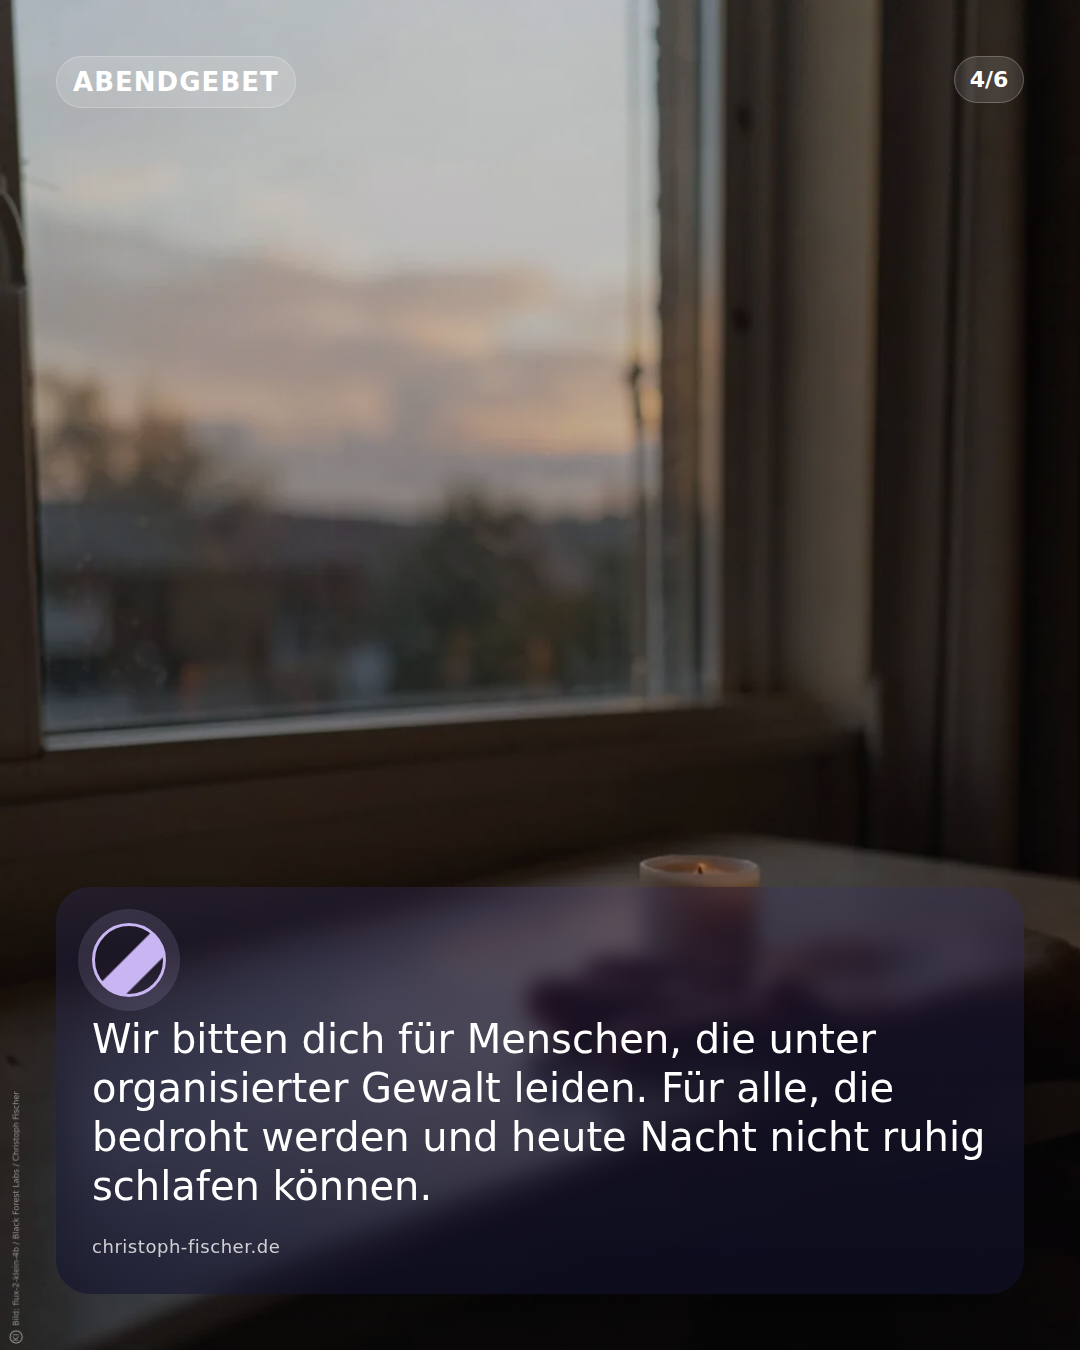
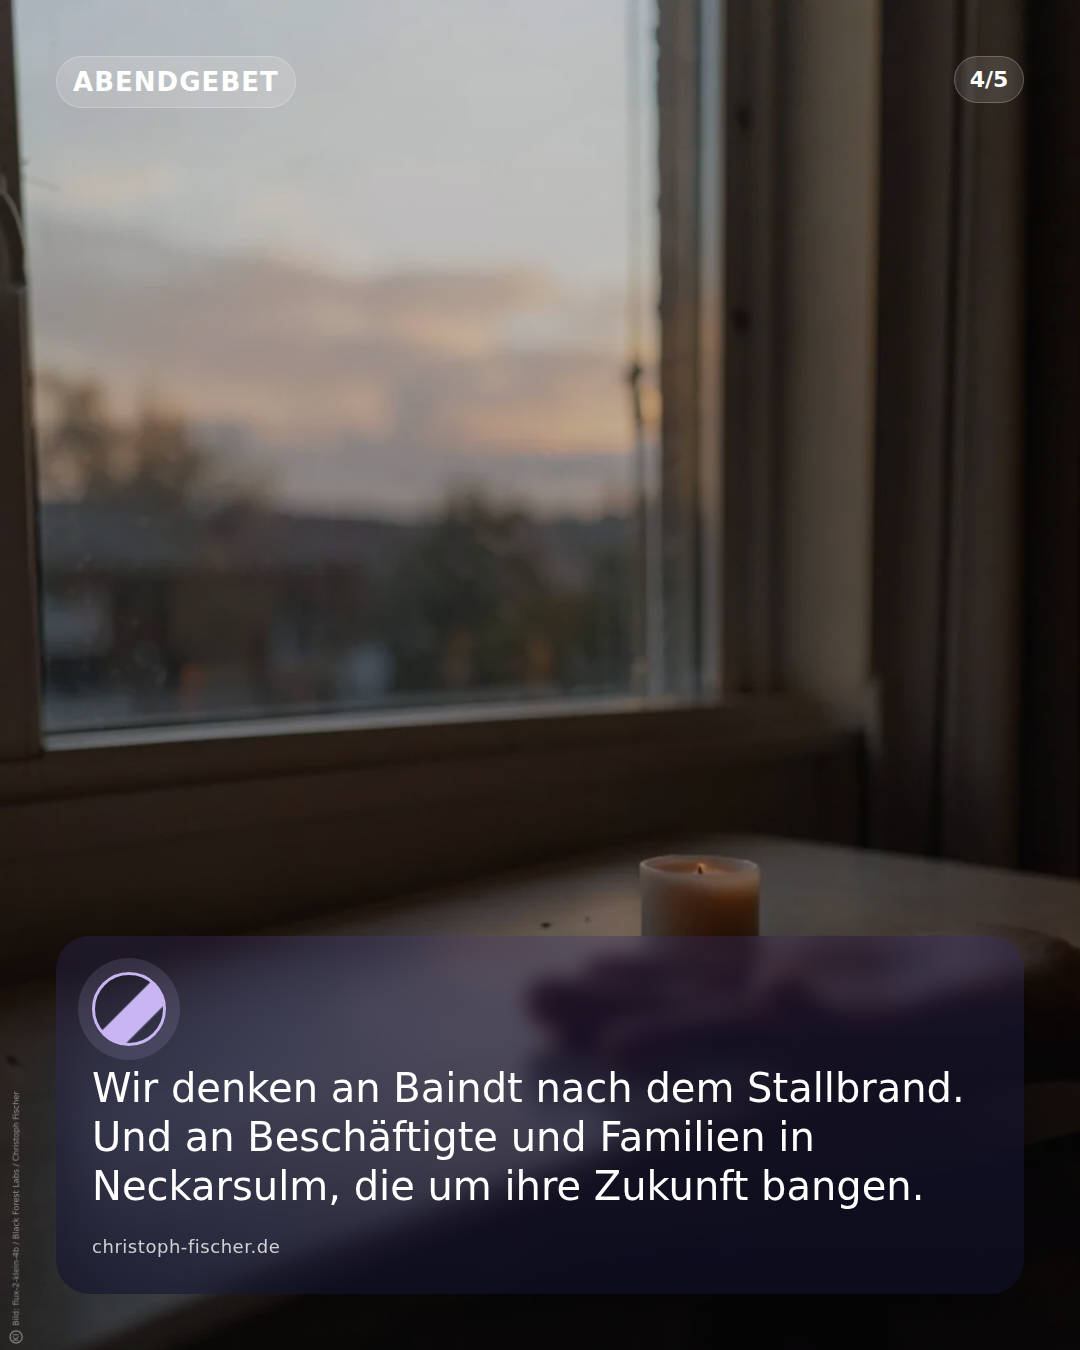
Update content: GET /files/2026-09-16/prayer-evening-2026-09-16/render-instagram-story-04.png

Changed region(s): [[0.0306, 0.6533, 0.9167, 0.9022], [0.55, 0.6533, 0.7028, 0.7156]]

diff --git a/2026-09-16/prayer-evening-2026-09-16/render-instagram-feed-04.html b/2026-09-16/prayer-evening-2026-09-16/render-instagram-feed-04.html
@@ -396,11 +396,11 @@
       <section class="layout">
         <div class="panel-meta">
           <div class="eyebrow">Abendgebet</div>
-          <div class="pager">4/6</div>
+          <div class="pager">4/5</div>
         </div>
         <section class="panel prayer-panel">
   <div class="prayer-symbol prayer-symbol-evening" aria-hidden="true"></div>
-  <p class="body-text" data-overflow-id="primary-text">Wir bitten dich für Menschen, die unter organisierter Gewalt leiden. Für alle, die bedroht werden und heute Nacht nicht ruhig schlafen können.</p>
+  <p class="body-text" data-overflow-id="primary-text">Wir denken an Baindt nach dem Stallbrand. Und an Beschäftigte und Familien in Neckarsulm, die um ihre Zukunft bangen.</p>
   <p class="sender-mark">christoph-fischer.de</p>
 </section>
 

diff --git a/2026-09-16/prayer-evening-2026-09-16/render-instagram-feed-05.html b/2026-09-16/prayer-evening-2026-09-16/render-instagram-feed-05.html
@@ -396,11 +396,11 @@
       <section class="layout">
         <div class="panel-meta">
           <div class="eyebrow">Abendgebet</div>
-          <div class="pager">5/6</div>
+          <div class="pager">5/5</div>
         </div>
         <section class="panel prayer-panel">
   <div class="prayer-symbol prayer-symbol-evening" aria-hidden="true"></div>
-  <p class="body-text" data-overflow-id="primary-text">Wir denken an Baindt nach dem Stallbrand. Und an Beschäftigte und Familien in Neckarsulm, die um ihre Zukunft bangen.</p>
+  <p class="body-text" data-overflow-id="primary-text">Was wir heute nicht geschafft haben, legen wir in deine Hand. Schenk Frieden für diese Nacht. Amen.</p>
   <p class="sender-mark">christoph-fischer.de</p>
 </section>
 
